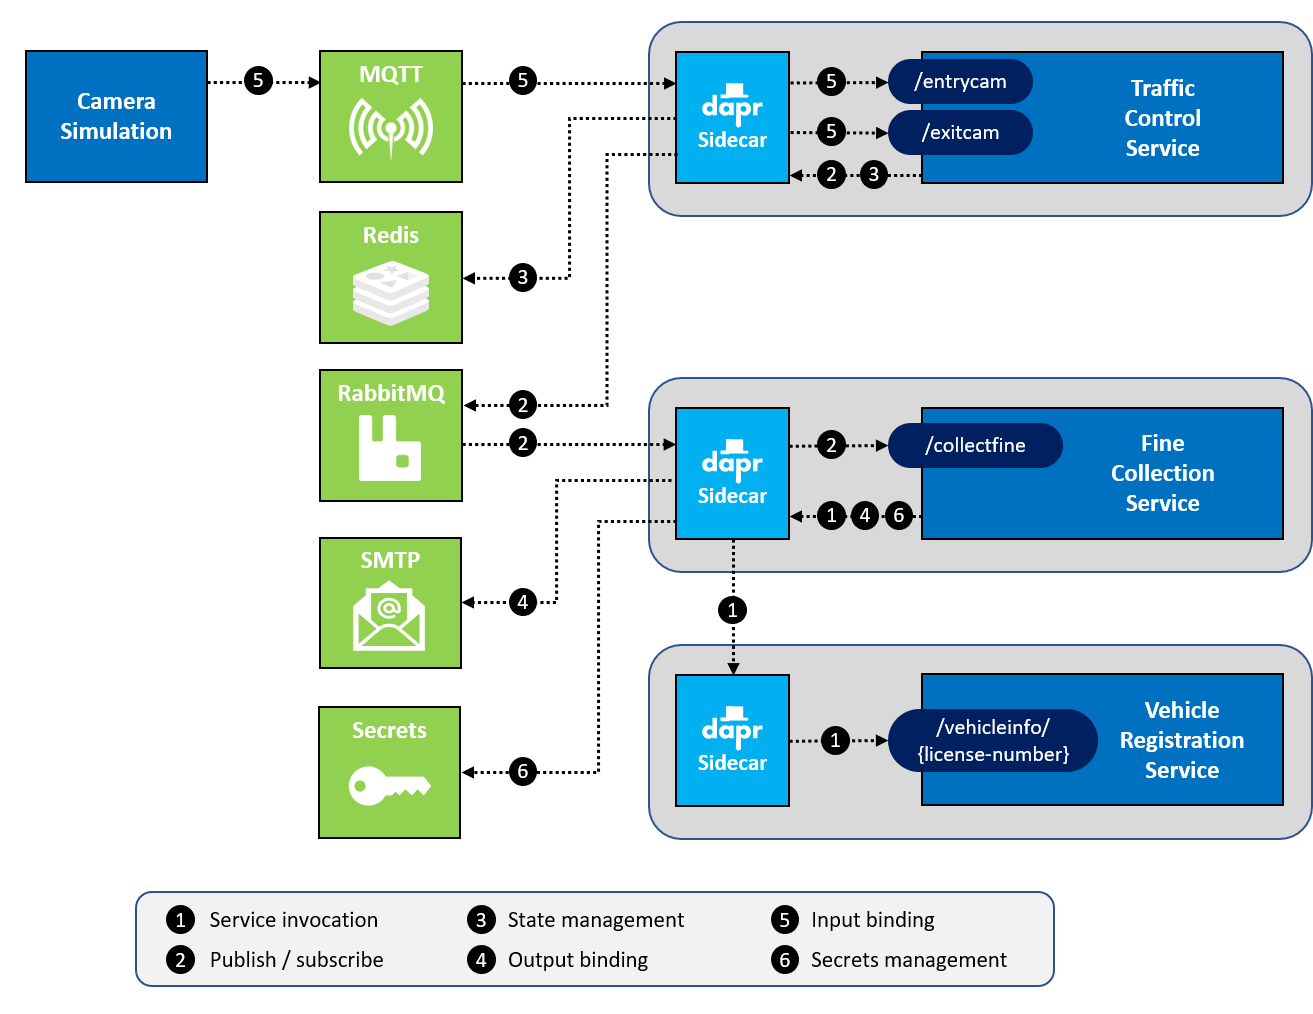
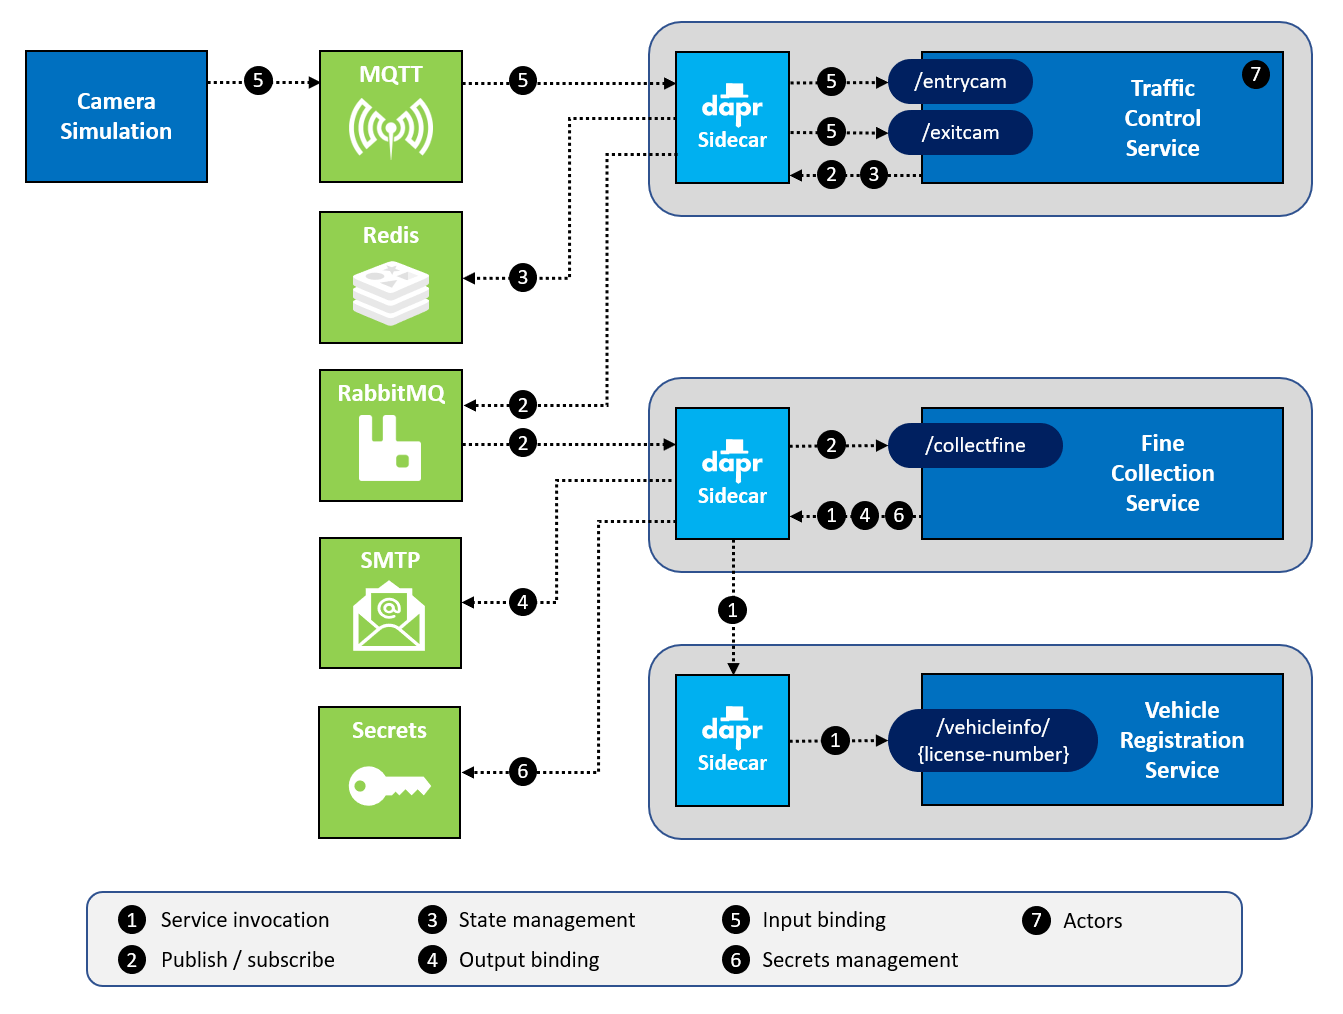
Describe actor implementation in README

diff --git a/README.md b/README.md
@@ -54,18 +54,19 @@ This sample uses Dapr for implementing several aspects of the application. In th
 
 ![Dapr setup](img/dapr-setup.png)
 
-1. For doing request/response type communication between the FineCollectionService and the VehicleRegistrationService, the **service invocation** building-block is used.
-1. For sending speeding violations to the FineCollectionService, the **publish and subscribe** building-block is used. RabbitMQ is used as message broker.
-1. For storing the state of a vehicle, the **state management** building-block is used. Redis is used as state store.
+1. For doing request/response type communication between the FineCollectionService and the VehicleRegistrationService, the **service invocation** building block is used.
+1. For sending speeding violations to the FineCollectionService, the **publish and subscribe** building block is used. RabbitMQ is used as message broker.
+1. For storing the state of a vehicle, the **state management** building block is used. Redis is used as state store.
 1. Fines are sent to the owner of a speeding vehicle by email. For sending the email, the Dapr SMTP **output binding** is used.
 1. The Dapr **input binding** for MQTT is used to send simulated car info to the TrafficControlService. Mosquitto is used as MQTT broker.
 1. The FineCollectionService needs credentials for connecting to the smtp server and a license-key for a fine calculator component. It uses the **secrets management** building block with the local file component to get the credentials and the license-key.
+1. The TrafficControlService has an alternative implementation based on Dapr **actors**. See [Run the application with actors](#run-the-application-with-dapr-actors) for instructions on how to run this.
 
-Here is the sequence diagram again, but now with all the Dapr building-blocks and components:
+Here is the sequence diagram again, but now with all the Dapr building blocks and components:
 
 ![Sequence diagram with Dapr building blocks](img/sequence-dapr.png)
 
-## Running the sample in Dapr self-hosted mode
+## Run the application in Dapr self-hosted mode
 
 In self-hosted mode everything will run on your local machine. To prevent port-collisions, all services listen on a different HTTP port. When running the services with Dapr, you need additional ports voor HTTP and gRPC communication with the sidecars. By default these ports are `3500` and `50001`. But to prevent confusion, you'll use totally different port numbers in the assignments. The services will use the following ports:
 
@@ -160,7 +161,23 @@ To see the emails that are sent by the FineCollectionService, open a browser and
 
 ![Mailbox](img/mailbox.png)
 
-## Running the sample on Kubernetes
+## Run the application with Dapr actors
+
+The TrafficControlService has an alternative implementation based on Dapr actors. If you want to run the application with Dapr actors, you need to change something in the TrafficControlService.
+
+The `TrafficController` in the TrafficControlService has 2 implementations of the `VehicleEntry` and `VehicleExit` methods. The first implementations contain all the code for handling vehicle registrations. The second implementations use a `VehicleActor` that does all the work. A new instance of the `VehicleActor` is created for each registered vehicle. You can find the code of the actor in the file `src/TrafficControlService/Actors/VehicleActor.cs`.
+
+To use the actor based implementation, uncomment the statement that defines the USE_ACTORMODEL symbol at the top of the controller:
+
+```csharp
+#define USE_ACTORMODEL
+```
+
+Now you can restart the application just as before. The behavior is exactly the same, but this time the logging of the TrafficControlService, will be emitted by the `VehicleActor`:  
+
+![](img/logging-trafficcontrolservice-actors.png)
+
+## Run the application on Kubernetes
 
 Execute the following steps to run the sample application on Kubernetes:
 
@@ -209,3 +226,5 @@ Although the book is targeted at .NET developers, it covers all the concepts and
 The code in this repo is NOT production grade and lacks any automated testing. It is intentionally kept as simple as possible (KISS). Its primary purpose is demonstrating several Dapr concepts and not being a full fledged application that can be put into production as is.
 
 The author can in no way be held liable for damage caused directly or indirectly by using this code.
+
+[#run-the-application-with-dapr-actors]: 
